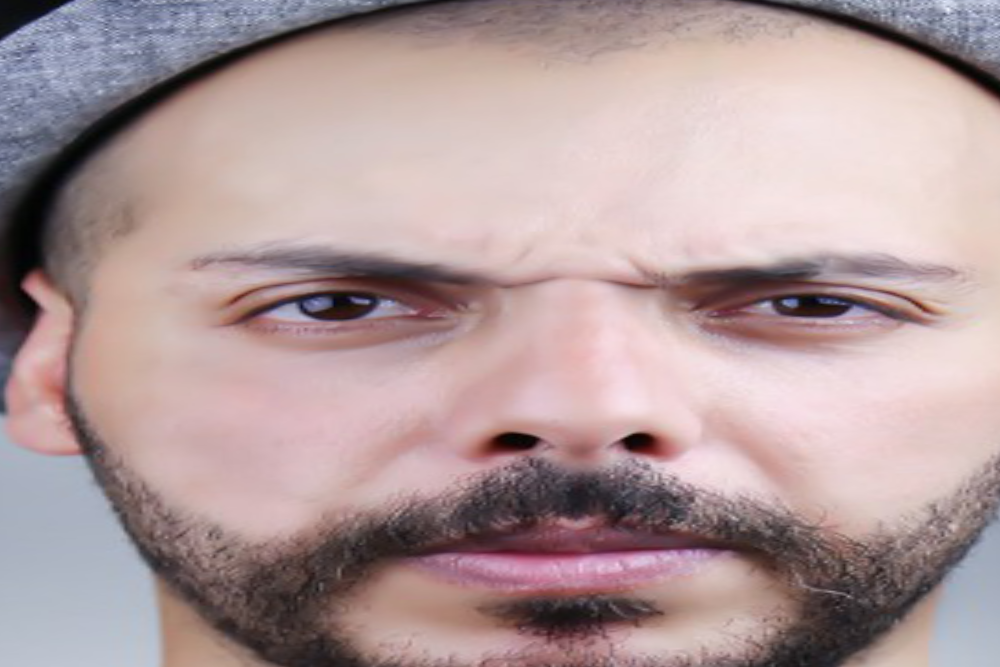
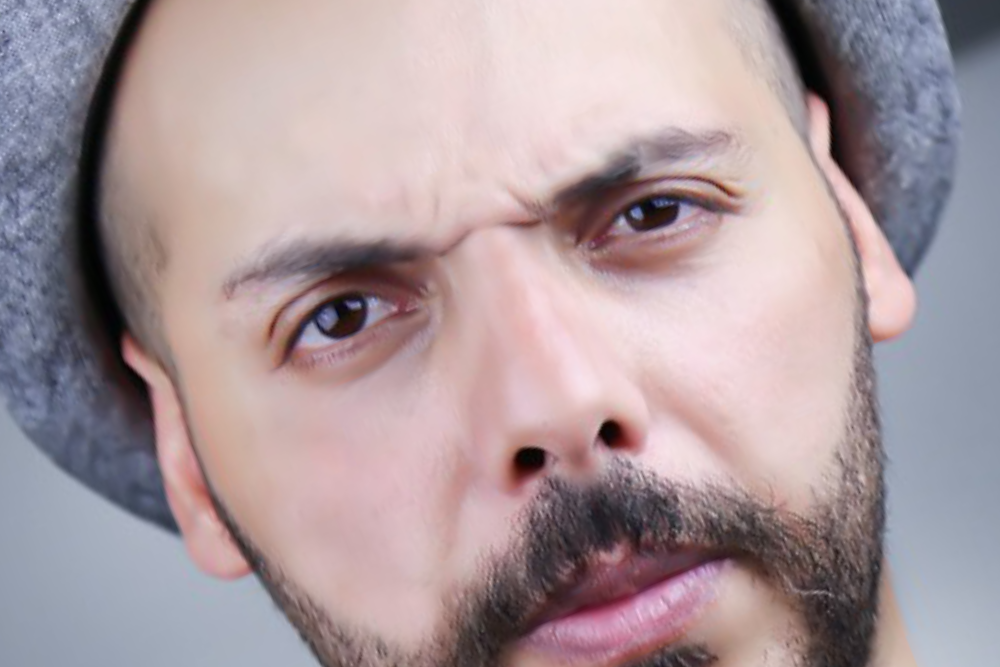
fix

diff --git a/align/mtcnn_align.py b/align/mtcnn_align.py
@@ -60,8 +60,10 @@ def align(img, pset):
 
     dst = np.array(zip(pset_x, pset_y)).astype(np.float32).reshape(1, 5, 2)
 
-    transmat = cv2.estimateRigidTransform(dst, src, True)
-    print (transmat)
+    transmat = cv2.estimateRigidTransform(dst, src, False)
+    if transmat is None:
+        transmat = cv2.estimateRigidTransform(dst, src, True)
+   	print('helped')
     out = cv2.warpAffine(img, transmat, (imgSize[1], imgSize[0]))
 
     return out
@@ -119,11 +121,12 @@ def main(args):
                 if img.ndim == 2:
                     img = to_rgb(img)
                 img = img[:, :, 0:3]
-                print('shape', img.shape)
+                #print('shape', img.shape)
 
                 bounding_boxes, points = detect_face.detect_face(img, minsize, pnet, rnet, onet, threshold,
                                                                  factor)
                 if bounding_boxes.shape[0] == 1:
+                    print(image_path)
                     img = align(img, points)
                     misc.imsave(output_filename, img)
                     continue
